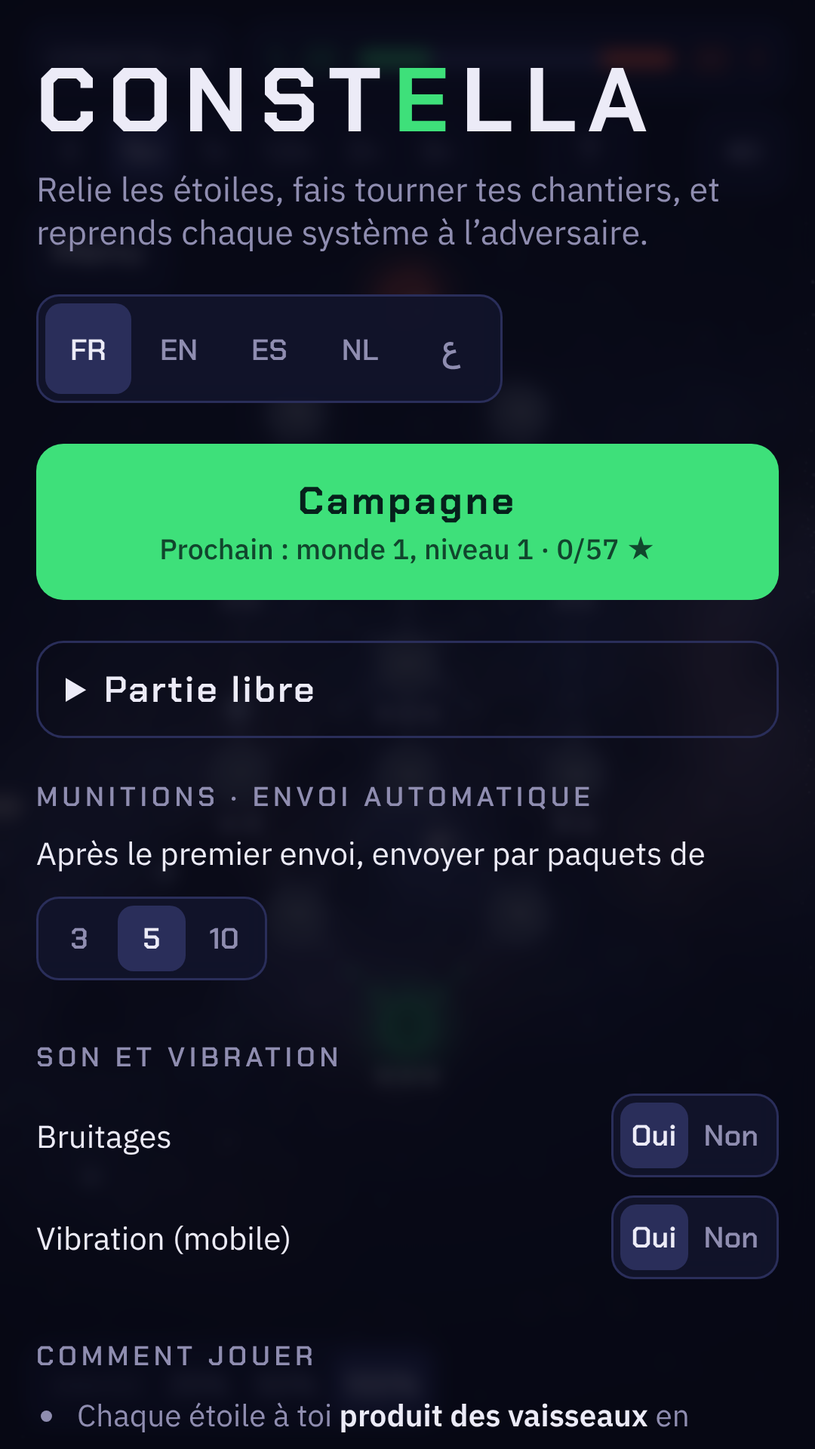
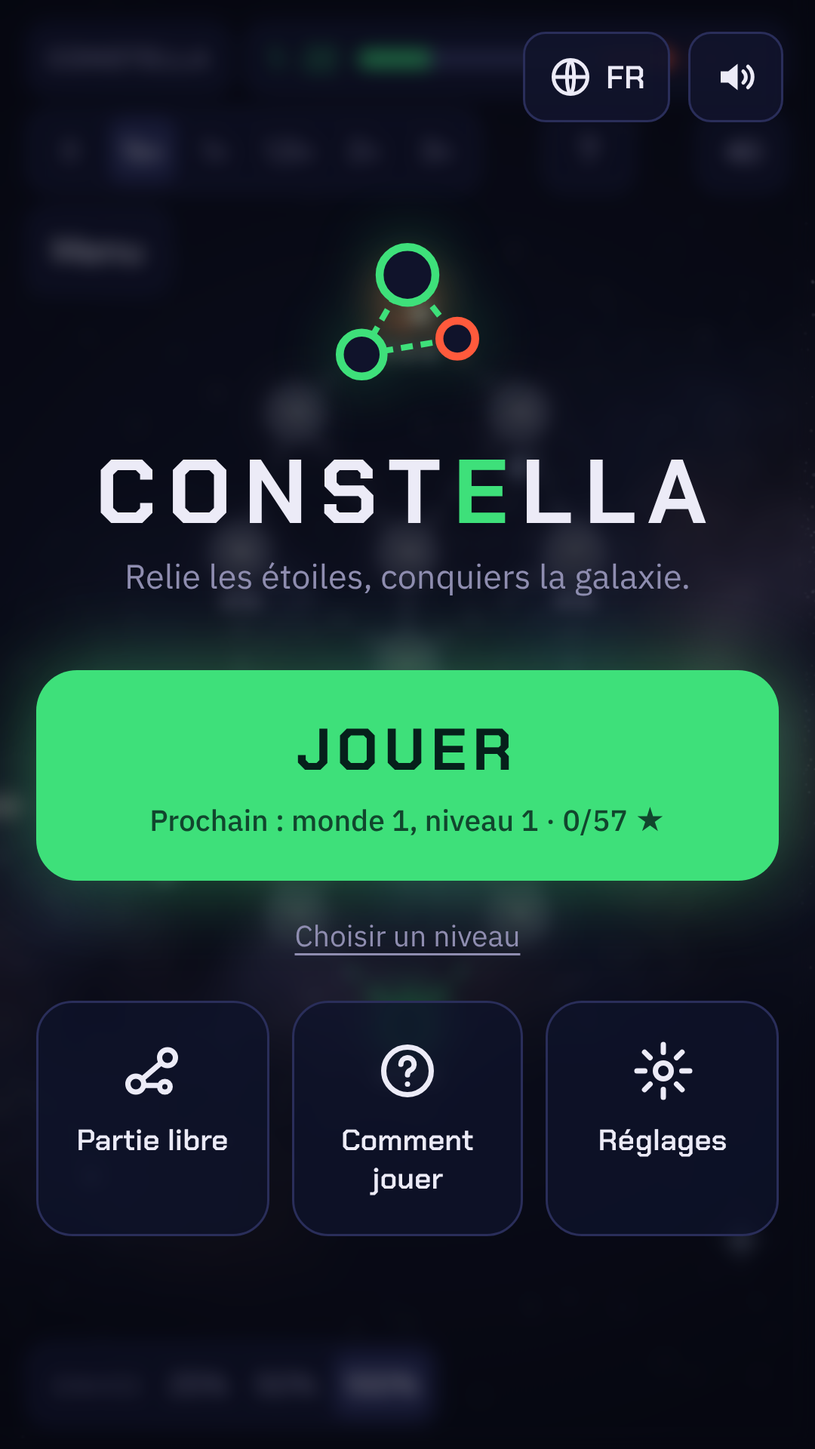
Nouvel accueil : bouton Jouer au centre et tuiles
Claude-Session: https://claude.ai/code/session_01BtQrEGDjXAQZv8s9ZSWGgz

diff --git a/index.html b/index.html
@@ -116,6 +116,26 @@ h2{font-family:var(--display);font-size:12px;letter-spacing:.16em;text-transform
 #endTitle{font-family:var(--display);font-size:clamp(34px,9vw,54px);margin:0;letter-spacing:.08em}
 #endStats{color:var(--muted);margin:0;font-variant-numeric:tabular-nums}
 .setrow{display:flex;align-items:center;justify-content:space-between;gap:10px;flex-wrap:wrap;margin-bottom:8px;font-size:14px}
+#menu{background:rgba(8,9,22,.55)}
+.home{align-items:center;text-align:center;max-width:420px;gap:14px}
+.home .tag{margin:-6px 0 0}
+.hlogo{width:88px;height:88px;filter:drop-shadow(0 0 14px rgba(62,224,122,.35))}
+.home .btns{width:100%;margin-top:18px;flex-direction:column}
+.go.play{padding:18px;border-radius:18px;font-size:26px;display:flex;flex-direction:column;gap:4px;box-shadow:0 0 36px rgba(62,224,122,.4)}
+.go.play>span{text-transform:uppercase;letter-spacing:.1em}
+.go.play small{font-family:var(--body,inherit);font-size:13px;font-weight:500;letter-spacing:0;opacity:.8}
+.lvl{color:var(--muted);font-size:13px;text-decoration:underline;text-underline-offset:3px;padding:2px 8px}
+.tiles{display:grid;grid-template-columns:repeat(3,1fr);gap:10px;width:100%;margin-top:4px}
+.tile{background:rgba(16,19,43,.78);border:1px solid var(--edge);border-radius:16px;padding:16px 6px;display:flex;flex-direction:column;align-items:center;gap:8px;font-family:var(--display);font-weight:600;font-size:13px}
+.tile svg{width:28px;height:28px}
+.mtop{position:absolute;top:max(14px,env(safe-area-inset-top,0px));right:14px;display:flex;gap:8px;z-index:2}
+[dir="rtl"] .mtop{right:auto;left:14px}
+.mi{height:40px;min-width:40px;padding:0 10px;display:flex;align-items:center;justify-content:center;gap:6px;font-family:var(--display);font-weight:600;font-size:14px}
+.mi svg{width:20px;height:20px}
+.sheetbg{position:fixed;inset:0;background:rgba(0,0,0,.5);z-index:3}
+.sheet{position:fixed;left:0;right:0;bottom:0;margin:0 auto;max-width:560px;max-height:82%;overflow:auto;z-index:4;background:rgba(14,17,38,.98);border-top:1px solid rgba(242,193,78,.5);border-radius:22px 22px 0 0;padding:18px 18px max(22px,env(safe-area-inset-bottom,0px));display:flex;flex-direction:column;gap:14px;animation:up .22s ease-out}
+.sheet h3{margin:0;font-family:var(--display);color:var(--gold);letter-spacing:.16em;font-size:13px;text-transform:uppercase}
+@keyframes up{from{transform:translateY(40px);opacity:0}}
 .btns{display:flex;gap:10px;flex-wrap:wrap}.btns>*{flex:1}
 details.free{border:1px solid var(--edge);border-radius:12px;padding:10px 12px}
 details.free summary{cursor:pointer;font-family:var(--display);font-weight:600;letter-spacing:.06em}
@@ -189,54 +209,42 @@ details.free>div{display:flex;flex-direction:column;gap:14px}
   </div>
 
   <div class="screen" id="menu">
-    <div class="card">
+    <div class="mtop"><button class="chip mi" id="mLang" data-i18n-aria="lang_h" aria-label="Langue"><svg viewBox="0 0 24 24" fill="none" stroke="currentColor" stroke-width="2" aria-hidden="true"><circle cx="12" cy="12" r="9"/><path d="M3 12h18M12 3c2.5 2.7 2.5 15.3 0 18M12 3c-2.5 2.7-2.5 15.3 0 18"/></svg><span id="mLangL">FR</span></button><button class="chip mi" id="mSnd"></button></div>
+    <div class="card home">
+      <svg class="hlogo" viewBox="0 0 100 100" aria-hidden="true"><path d="M27 70L50 30M50 30L75 62M27 70L75 62" stroke="var(--me)" stroke-width="3" stroke-dasharray="6 4" fill="none"/><g fill="#10132b" stroke-width="4"><circle cx="27" cy="70" r="11" stroke="var(--me)"/><circle cx="75" cy="62" r="9" stroke="#ff5a3c"/><circle cx="50" cy="30" r="14" stroke="var(--me)"/></g></svg>
       <h1 class="logo">CONST<span>E</span>LLA</h1>
       <p class="tag" data-i18n="tag"></p>
-      <div class="chip seg" id="lang" role="group" aria-label="Langue" style="align-self:flex-start"><button data-l="fr">FR</button><button data-l="en">EN</button><button data-l="es">ES</button><button data-l="nl">NL</button><button data-l="ar">ع</button></div>
-      <div class="btns"><button class="go" id="campaign"><span data-i18n="campaign">Campagne</span><small id="campNext"></small></button><button class="ghost" id="resume" hidden data-i18n="resume">Reprendre</button></div>
-      <details class="free"><summary data-i18n="free">Partie libre</summary>
-        <div>
-          <div><h2 data-i18n="map">Carte</h2><div class="maps" id="maps"></div></div>
-          <div><h2 data-i18n="opponent">Adversaire</h2>
+      <div class="btns"><button class="go play" id="campaign"><span data-i18n="play">Jouer</span><small id="campNext"></small></button><button class="ghost" id="resume" hidden data-i18n="resume">Reprendre</button></div>
+      <button class="lvl" id="levels" data-i18n="levels">Choisir un niveau</button>
+      <div class="tiles">
+        <button class="tile" data-sheet="sFree"><svg viewBox="0 0 24 24" fill="none" stroke="currentColor" stroke-width="2" stroke-linecap="round" aria-hidden="true"><circle cx="6" cy="17" r="3"/><circle cx="18" cy="7" r="3"/><circle cx="17" cy="18" r="2"/><path d="M8.5 15l7-6M9 17.5h6"/></svg><span data-i18n="free">Partie libre</span></button>
+        <button class="tile" data-sheet="sHow"><svg viewBox="0 0 24 24" fill="none" stroke="currentColor" stroke-width="2" stroke-linecap="round" aria-hidden="true"><circle cx="12" cy="12" r="9"/><path d="M9.5 9.5a2.5 2.5 0 1 1 3.5 2.3c-.7.3-1 .9-1 1.7M12 17h.01"/></svg><span data-i18n="how_h">Comment jouer</span></button>
+        <button class="tile" data-sheet="sSet"><svg viewBox="0 0 24 24" fill="none" stroke="currentColor" stroke-width="2" stroke-linecap="round" aria-hidden="true"><circle cx="12" cy="12" r="3"/><path d="M12 2v3M12 19v3M4.9 4.9l2.1 2.1M17 17l2.1 2.1M2 12h3M19 12h3M4.9 19.1L7 17M17 7l2.1-2.1"/></svg><span data-i18n="settings">Réglages</span></button>
+      </div>
+    </div>
+    <div class="sheetbg" id="sheetBg" hidden></div>
+    <div class="sheet" id="sFree" hidden><h3 data-i18n="free">Partie libre</h3>
+      <div><h2 data-i18n="map">Carte</h2><div class="maps" id="maps"></div></div>
+      <div><h2 data-i18n="opponent">Adversaire</h2>
             <div class="chip seg" id="diff" role="group" data-i18n-aria="diff_aria" aria-label="Difficulté" style="display:inline-flex">
               <button data-d="facile" data-i18n="diff_facile">Facile</button>
               <button data-d="normal" aria-pressed="true" data-i18n="diff_normal">Normal</button>
               <button data-d="difficile" data-i18n="diff_difficile">Difficile</button>
             </div>
           </div>
-          <button class="ghost" id="start" data-i18n="start_free">Lancer la partie libre</button>
-        </div>
-      </details>
-      <div><h2 data-i18n="mun_h">Munitions · envoi automatique</h2>
-        <div class="setrow"><span data-i18n="mun_t">Après le premier envoi, envoyer par paquets de</span>
-          <div class="chip seg" id="qty" role="group" data-i18n-aria="qty_aria" aria-label="Vaisseaux par envoi">
+      <button class="ghost" id="start" data-i18n="start_free">Lancer la partie libre</button>
+    </div>
+    <div class="sheet" id="sHow" hidden><h3 data-i18n="how_h">Comment jouer</h3>
+      <div id="howL" style="display:flex;flex-direction:column;gap:12px"></div>
+      <button class="ghost" id="tutoAgain" data-i18n="tuto_again" style="margin-top:10px;width:100%">Revoir le tutoriel</button>
+    </div>
+    <div class="sheet" id="sSet" hidden><h3 data-i18n="settings">Réglages</h3>
+      <div class="setrow"><span data-i18n="lang_h">Langue</span><div class="chip seg" id="lang" role="group" aria-label="Langue"><button data-l="fr">FR</button><button data-l="en">EN</button><button data-l="es">ES</button><button data-l="nl">NL</button><button data-l="ar">ع</button></div></div>
+      <div class="setrow"><span data-i18n="sfx">Bruitages</span><div class="chip seg" id="optSnd" role="group" aria-label="Bruitages"><button data-v="1" data-i18n="yes">Oui</button><button data-v="0" data-i18n="no">Non</button></div></div>
+      <div class="setrow"><span data-i18n="vib">Vibration</span><div class="chip seg" id="optVib" role="group" aria-label="Vibration"><button data-v="1" data-i18n="yes">Oui</button><button data-v="0" data-i18n="no">Non</button></div></div>
+      <div class="setrow"><span data-i18n="auto_by">Envoi auto par</span><div class="chip seg" id="qty" role="group" data-i18n-aria="qty_aria" aria-label="Vaisseaux par envoi">
             <button data-q="3">3</button><button data-q="5" aria-pressed="true">5</button><button data-q="10">10</button>
           </div></div>
-      </div>
-      <div><h2 data-i18n="snd_h">Son et vibration</h2>
-        <div class="setrow"><span data-i18n="sfx">Bruitages</span>
-          <div class="chip seg" id="optSnd" role="group" aria-label="Bruitages"><button data-v="1" data-i18n="yes">Oui</button><button data-v="0" data-i18n="no">Non</button></div></div>
-        <div class="setrow"><span data-i18n="vib">Vibration (mobile)</span>
-          <div class="chip seg" id="optVib" role="group" aria-label="Vibration"><button data-v="1" data-i18n="yes">Oui</button><button data-v="0" data-i18n="no">Non</button></div></div>
-      </div>
-      <div><h2 data-i18n="how_h">Comment jouer</h2>
-        <ul class="rules">
-          <li data-i18n-html="r1"></li>
-          <li data-i18n-html="r2"></li>
-          <li data-i18n-html="r3"></li>
-          <li data-i18n-html="r4"></li>
-          <li data-i18n-html="r5"></li>
-          <li data-i18n-html="r6"></li>
-          <li data-i18n-html="r7"></li>
-          <li data-i18n-html="r8"></li>
-          <li data-i18n-html="r9"></li>
-          <li data-i18n-html="r10"></li>
-          <li data-i18n-html="r11"></li>
-          <li data-i18n-html="r12"></li>
-          <li data-i18n-html="r13"></li>
-        </ul>
-        <button class="ghost" id="tutoAgain" data-i18n="tuto_again" style="margin-top:10px;width:100%">Revoir le tutoriel</button>
-      </div>
     </div>
   </div>
 
@@ -266,7 +274,7 @@ const I18N={
 fr:{
 map_aria:"Carte de la galaxie",speed_aria:"Vitesse du jeu",pause:"Pause",snd_title:"Couper ou remettre le son",menu:"Menu",tuto_skip:"Passer le tutoriel",
 ratio_aria:"Part de la flotte envoyée",send:"Envoi",fit:"Recentrer la carte",news_aria:"Nouveauté",news_h:"Nouveau",news_ok:"Compris",
-tag:"Relie les étoiles, fais tourner tes chantiers, et reprends chaque système à l’adversaire.",
+tag:"Relie les étoiles, conquiers la galaxie.",
 campaign:"Campagne",resume:"Reprendre",free:"Partie libre",map:"Carte",opponent:"Adversaire",diff_aria:"Difficulté",diff_facile:"Facile",diff_normal:"Normal",diff_difficile:"Difficile",start_free:"Lancer la partie libre",
 mun_h:"Munitions · envoi automatique",mun_t:"Après le premier envoi, envoyer par paquets de",qty_aria:"Vaisseaux par envoi",
 snd_h:"Son et vibration",sfx:"Bruitages",vib:"Vibration (mobile)",yes:"Oui",no:"Non",test_h:"Mode test",test_t:"Ouvrir tous les niveaux de la campagne",lang_h:"Langue",
@@ -307,12 +315,12 @@ tuto_bravo:"Bravo ! ",tuto_miss:"Raté, il en fallait plus. ",tuto4:"Glisse d’
 snd_off:"Couper le son",snd_on:"Remettre le son",
 w0n:"Ceinture d’Aldra",w0d:"Un seul adversaire, prudent. Le temps d’apprendre.",w1n:"Nébuleuse de Vesk",w1d:"Un adversaire plus vif, des cartes plus grandes.",
 w2n:"Triangle de Kael",w2d:"Deux ennemis en même temps. Ils se battent aussi entre eux.",w3n:"Couronne d’Ysor",w3d:"Trois ennemis. Survivre d’abord, conquérir ensuite.",
-map_vega_n:"Anneau de Véga",map_vega_d:"13 systèmes, un cœur géant disputé au milieu.",map_cygne_n:"Delta du Cygne",map_cygne_d:"15 systèmes en zigzag, des flancs exposés.",help_h:"Aide",help_close:"Fermer",help_tap_t:"Envoi unique",help_tap_d:"Touche ton étoile, puis une cible : elle y envoie ses vaisseaux une fois (25, 50 ou 100 %, en bas).",help_drag_t:"Envoi automatique",help_drag_d:"Glisse d’une étoile à une autre : tous les vaisseaux partent, puis un paquet dès qu’il est prêt. Glisse à nouveau pour arrêter.",help_wall_t:"Mur",help_wall_d:"Les traits autour de tes étoiles. Il grandit avec le temps et chaque segment arrête 1 vaisseau ennemi.",help_prod_d:"+40 % de production par niveau (3 niveaux), sans inconvénient.",help_auto_d:"Touche cette icône puis une cible : même effet que glisser d’une étoile à l’autre.",ft_tap:"Nouvelle icône ! Touche ton étoile pour la voir.",ft_prod:"Touche l’icône qui brille, Production : ton étoile produira 40 % plus vite.",ft_def:"Touche l’icône qui brille, Défense : tes vaisseaux résistent mieux et ton mur grandit plus vite.",ft_rapide:"Touche l’éclair qui brille, Rapide : les flottes de cette étoile voleront 60 % plus vite.",ft_phare:"Touche le soleil qui brille, Phare : les flottes de cette étoile et de ses voisines iront plus vite et frapperont plus fort.",ft_after:"Bravo ! Le bouton ? en haut explique toutes les icônes, à tout moment."
+map_vega_n:"Anneau de Véga",map_vega_d:"13 systèmes, un cœur géant disputé au milieu.",map_cygne_n:"Delta du Cygne",map_cygne_d:"15 systèmes en zigzag, des flancs exposés.",play:"Jouer",settings:"Réglages",levels:"Choisir un niveau",auto_by:"Envoi auto par",help_h:"Aide",help_close:"Fermer",help_tap_t:"Envoi unique",help_tap_d:"Touche ton étoile, puis une cible : elle y envoie ses vaisseaux une fois (25, 50 ou 100 %, en bas).",help_drag_t:"Envoi automatique",help_drag_d:"Glisse d’une étoile à une autre : tous les vaisseaux partent, puis un paquet dès qu’il est prêt. Glisse à nouveau pour arrêter.",help_wall_t:"Mur",help_wall_d:"Les traits autour de tes étoiles. Il grandit avec le temps et chaque segment arrête 1 vaisseau ennemi.",help_prod_d:"+40 % de production par niveau (3 niveaux), sans inconvénient.",help_auto_d:"Touche cette icône puis une cible : même effet que glisser d’une étoile à l’autre.",ft_tap:"Nouvelle icône ! Touche ton étoile pour la voir.",ft_prod:"Touche l’icône qui brille, Production : ton étoile produira 40 % plus vite.",ft_def:"Touche l’icône qui brille, Défense : tes vaisseaux résistent mieux et ton mur grandit plus vite.",ft_rapide:"Touche l’éclair qui brille, Rapide : les flottes de cette étoile voleront 60 % plus vite.",ft_phare:"Touche le soleil qui brille, Phare : les flottes de cette étoile et de ses voisines iront plus vite et frapperont plus fort.",ft_after:"Bravo ! Le bouton ? en haut explique toutes les icônes, à tout moment."
 },
 en:{
 map_aria:"Galaxy map",speed_aria:"Game speed",pause:"Pause",snd_title:"Mute or unmute",menu:"Menu",tuto_skip:"Skip tutorial",
 ratio_aria:"Share of the fleet sent",send:"Send",fit:"Recenter the map",news_aria:"New",news_h:"New",news_ok:"Got it",
-tag:"Link the stars, keep your shipyards busy, and take every system back from your rivals.",
+tag:"Link the stars, conquer the galaxy.",
 campaign:"Campaign",resume:"Resume",free:"Free play",map:"Map",opponent:"Opponent",diff_aria:"Difficulty",diff_facile:"Easy",diff_normal:"Normal",diff_difficile:"Hard",start_free:"Start free play",
 mun_h:"Ammo · auto-send",mun_t:"After the first send, send in packs of",qty_aria:"Ships per send",
 snd_h:"Sound and vibration",sfx:"Sound effects",vib:"Vibration (mobile)",yes:"Yes",no:"No",test_h:"Test mode",test_t:"Unlock every campaign level",lang_h:"Language",
@@ -353,12 +361,12 @@ tuto_bravo:"Well done! ",tuto_miss:"Missed, you needed more. ",tuto4:"Drag from 
 snd_off:"Mute",snd_on:"Unmute",
 w0n:"Aldra Belt",w0d:"A single cautious opponent. Time to learn.",w1n:"Vesk Nebula",w1d:"A sharper opponent, bigger maps.",
 w2n:"Kael Triangle",w2d:"Two enemies at once. They also fight each other.",w3n:"Ysor Crown",w3d:"Three enemies. Survive first, conquer next.",
-map_vega_n:"Vega Ring",map_vega_d:"13 systems, a giant contested core in the middle.",map_cygne_n:"Cygnus Delta",map_cygne_d:"15 zigzag systems, exposed flanks.",help_h:"Help",help_close:"Close",help_tap_t:"Single send",help_tap_d:"Tap your star, then a target: it sends its ships there once (25, 50 or 100%, at the bottom).",help_drag_t:"Auto-send",help_drag_d:"Drag from one star to another: all ships leave, then a pack as soon as it is ready. Drag again to stop.",help_wall_t:"Wall",help_wall_d:"The marks around your stars. It grows over time and each segment stops 1 enemy ship.",help_prod_d:"+40% production per level (3 levels), with no downside.",help_auto_d:"Tap this icon, then a target: same as dragging from one star to another.",ft_tap:"New icon! Tap your star to see it.",ft_prod:"Tap the glowing icon, Production: your star will build 40% faster.",ft_def:"Tap the glowing icon, Defense: your ships resist better and your wall grows faster.",ft_rapide:"Tap the glowing bolt, Rapid: fleets from this star will fly 60% faster.",ft_phare:"Tap the glowing sun, Beacon: fleets from this star and its neighbours will fly faster and hit harder.",ft_after:"Well done! The ? button at the top explains every icon, anytime."
+map_vega_n:"Vega Ring",map_vega_d:"13 systems, a giant contested core in the middle.",map_cygne_n:"Cygnus Delta",map_cygne_d:"15 zigzag systems, exposed flanks.",play:"Play",settings:"Settings",levels:"Choose a level",auto_by:"Auto-send packs of",help_h:"Help",help_close:"Close",help_tap_t:"Single send",help_tap_d:"Tap your star, then a target: it sends its ships there once (25, 50 or 100%, at the bottom).",help_drag_t:"Auto-send",help_drag_d:"Drag from one star to another: all ships leave, then a pack as soon as it is ready. Drag again to stop.",help_wall_t:"Wall",help_wall_d:"The marks around your stars. It grows over time and each segment stops 1 enemy ship.",help_prod_d:"+40% production per level (3 levels), with no downside.",help_auto_d:"Tap this icon, then a target: same as dragging from one star to another.",ft_tap:"New icon! Tap your star to see it.",ft_prod:"Tap the glowing icon, Production: your star will build 40% faster.",ft_def:"Tap the glowing icon, Defense: your ships resist better and your wall grows faster.",ft_rapide:"Tap the glowing bolt, Rapid: fleets from this star will fly 60% faster.",ft_phare:"Tap the glowing sun, Beacon: fleets from this star and its neighbours will fly faster and hit harder.",ft_after:"Well done! The ? button at the top explains every icon, anytime."
 },
 es:{
 map_aria:"Mapa de la galaxia",speed_aria:"Velocidad del juego",pause:"Pausa",snd_title:"Silenciar o activar el sonido",menu:"Menú",tuto_skip:"Saltar el tutorial",
 ratio_aria:"Parte de la flota enviada",send:"Envío",fit:"Centrar el mapa",news_aria:"Novedad",news_h:"Nuevo",news_ok:"Entendido",
-tag:"Une las estrellas, mantén tus astilleros en marcha y recupera cada sistema del adversario.",
+tag:"Une las estrellas, conquista la galaxia.",
 campaign:"Campaña",resume:"Continuar",free:"Partida libre",map:"Mapa",opponent:"Adversario",diff_aria:"Dificultad",diff_facile:"Fácil",diff_normal:"Normal",diff_difficile:"Difícil",start_free:"Empezar partida libre",
 mun_h:"Munición · envío automático",mun_t:"Tras el primer envío, enviar en grupos de",qty_aria:"Naves por envío",
 snd_h:"Sonido y vibración",sfx:"Efectos de sonido",vib:"Vibración (móvil)",yes:"Sí",no:"No",test_h:"Modo prueba",test_t:"Abrir todos los niveles de la campaña",lang_h:"Idioma",
@@ -399,12 +407,12 @@ tuto_bravo:"¡Bien hecho! ",tuto_miss:"Fallaste, hacían falta más. ",tuto4:"Ar
 snd_off:"Silenciar",snd_on:"Activar el sonido",
 w0n:"Cinturón de Aldra",w0d:"Un solo adversario, prudente. Tiempo para aprender.",w1n:"Nebulosa de Vesk",w1d:"Un adversario más rápido, mapas más grandes.",
 w2n:"Triángulo de Kael",w2d:"Dos enemigos a la vez. También luchan entre ellos.",w3n:"Corona de Ysor",w3d:"Tres enemigos. Primero sobrevivir, luego conquistar.",
-map_vega_n:"Anillo de Vega",map_vega_d:"13 sistemas, un núcleo gigante disputado en el centro.",map_cygne_n:"Delta del Cisne",map_cygne_d:"15 sistemas en zigzag, flancos expuestos.",help_h:"Ayuda",help_close:"Cerrar",help_tap_t:"Envío único",help_tap_d:"Toca tu estrella y luego un objetivo: envía sus naves una vez (25, 50 o 100 %, abajo).",help_drag_t:"Envío automático",help_drag_d:"Arrastra de una estrella a otra: salen todas las naves y luego un grupo en cuanto está listo. Arrastra otra vez para parar.",help_wall_t:"Muro",help_wall_d:"Las marcas alrededor de tus estrellas. Crece con el tiempo y cada segmento detiene 1 nave enemiga.",help_prod_d:"+40 % de producción por nivel (3 niveles), sin desventaja.",help_auto_d:"Toca este icono y luego un objetivo: igual que arrastrar de una estrella a otra.",ft_tap:"¡Nuevo icono! Toca tu estrella para verlo.",ft_prod:"Toca el icono que brilla, Producción: tu estrella producirá un 40 % más rápido.",ft_def:"Toca el icono que brilla, Defensa: tus naves resisten mejor y tu muro crece más rápido.",ft_rapide:"Toca el rayo que brilla, Rápida: las flotas de esta estrella volarán un 60 % más rápido.",ft_phare:"Toca el sol que brilla, Faro: las flotas de esta estrella y de sus vecinas irán más rápido y golpearán más fuerte.",ft_after:"¡Bien hecho! El botón ? de arriba explica todos los iconos, en cualquier momento."
+map_vega_n:"Anillo de Vega",map_vega_d:"13 sistemas, un núcleo gigante disputado en el centro.",map_cygne_n:"Delta del Cisne",map_cygne_d:"15 sistemas en zigzag, flancos expuestos.",play:"Jugar",settings:"Ajustes",levels:"Elegir un nivel",auto_by:"Envío auto de",help_h:"Ayuda",help_close:"Cerrar",help_tap_t:"Envío único",help_tap_d:"Toca tu estrella y luego un objetivo: envía sus naves una vez (25, 50 o 100 %, abajo).",help_drag_t:"Envío automático",help_drag_d:"Arrastra de una estrella a otra: salen todas las naves y luego un grupo en cuanto está listo. Arrastra otra vez para parar.",help_wall_t:"Muro",help_wall_d:"Las marcas alrededor de tus estrellas. Crece con el tiempo y cada segmento detiene 1 nave enemiga.",help_prod_d:"+40 % de producción por nivel (3 niveles), sin desventaja.",help_auto_d:"Toca este icono y luego un objetivo: igual que arrastrar de una estrella a otra.",ft_tap:"¡Nuevo icono! Toca tu estrella para verlo.",ft_prod:"Toca el icono que brilla, Producción: tu estrella producirá un 40 % más rápido.",ft_def:"Toca el icono que brilla, Defensa: tus naves resisten mejor y tu muro crece más rápido.",ft_rapide:"Toca el rayo que brilla, Rápida: las flotas de esta estrella volarán un 60 % más rápido.",ft_phare:"Toca el sol que brilla, Faro: las flotas de esta estrella y de sus vecinas irán más rápido y golpearán más fuerte.",ft_after:"¡Bien hecho! El botón ? de arriba explica todos los iconos, en cualquier momento."
 },
 nl:{
 map_aria:"Kaart van de melkweg",speed_aria:"Spelsnelheid",pause:"Pauze",snd_title:"Geluid uit of aan",menu:"Menu",tuto_skip:"Tutorial overslaan",
 ratio_aria:"Deel van de vloot dat vertrekt",send:"Sturen",fit:"Kaart centreren",news_aria:"Nieuw",news_h:"Nieuw",news_ok:"Begrepen",
-tag:"Verbind de sterren, laat je werven draaien en herover elk systeem op je tegenstander.",
+tag:"Verbind de sterren, verover de melkweg.",
 campaign:"Campagne",resume:"Hervatten",free:"Vrij spel",map:"Kaart",opponent:"Tegenstander",diff_aria:"Moeilijkheid",diff_facile:"Makkelijk",diff_normal:"Normaal",diff_difficile:"Moeilijk",start_free:"Vrij spel starten",
 mun_h:"Munitie · automatisch sturen",mun_t:"Na de eerste zending, sturen in groepen van",qty_aria:"Schepen per zending",
 snd_h:"Geluid en trillen",sfx:"Geluidseffecten",vib:"Trillen (mobiel)",yes:"Ja",no:"Nee",test_h:"Testmodus",test_t:"Alle campagneniveaus openen",lang_h:"Taal",
@@ -445,12 +453,12 @@ tuto_bravo:"Goed zo! ",tuto_miss:"Mis, je had er meer nodig. ",tuto4:"Sleep van 
 snd_off:"Geluid uit",snd_on:"Geluid aan",
 w0n:"Gordel van Aldra",w0d:"Eén voorzichtige tegenstander. Tijd om te leren.",w1n:"Nevel van Vesk",w1d:"Een snellere tegenstander, grotere kaarten.",
 w2n:"Driehoek van Kael",w2d:"Twee vijanden tegelijk. Ze vechten ook onderling.",w3n:"Kroon van Ysor",w3d:"Drie vijanden. Eerst overleven, dan veroveren.",
-map_vega_n:"Ring van Vega",map_vega_d:"13 systemen, een reusachtig betwist hart in het midden.",map_cygne_n:"Delta van de Zwaan",map_cygne_d:"15 systemen in zigzag, open flanken.",help_h:"Hulp",help_close:"Sluiten",help_tap_t:"Eenmalig sturen",help_tap_d:"Tik op je ster en dan op een doel: ze stuurt haar schepen er één keer heen (25, 50 of 100%, onderaan).",help_drag_t:"Automatisch sturen",help_drag_d:"Sleep van de ene ster naar de andere: alle schepen vertrekken, daarna een groep zodra die klaar is. Sleep opnieuw om te stoppen.",help_wall_t:"Muur",help_wall_d:"De streepjes rond je sterren. Hij groeit met de tijd en elk stuk houdt 1 vijandelijk schip tegen.",help_prod_d:"+40% productie per niveau (3 niveaus), zonder nadeel.",help_auto_d:"Tik op dit icoon en dan op een doel: hetzelfde als slepen van ster naar ster.",ft_tap:"Nieuw icoon! Tik op je ster om het te zien.",ft_prod:"Tik op het oplichtende icoon, Productie: je ster bouwt 40% sneller.",ft_def:"Tik op het oplichtende icoon, Verdediging: je schepen houden beter stand en je muur groeit sneller.",ft_rapide:"Tik op de oplichtende bliksem, Snel: vloten van deze ster vliegen 60% sneller.",ft_phare:"Tik op de oplichtende zon, Baken: vloten van deze ster en haar buren gaan sneller en slaan harder.",ft_after:"Goed zo! De knop ? bovenaan legt alle iconen uit, op elk moment."
+map_vega_n:"Ring van Vega",map_vega_d:"13 systemen, een reusachtig betwist hart in het midden.",map_cygne_n:"Delta van de Zwaan",map_cygne_d:"15 systemen in zigzag, open flanken.",play:"Spelen",settings:"Instellingen",levels:"Kies een niveau",auto_by:"Auto-sturen per",help_h:"Hulp",help_close:"Sluiten",help_tap_t:"Eenmalig sturen",help_tap_d:"Tik op je ster en dan op een doel: ze stuurt haar schepen er één keer heen (25, 50 of 100%, onderaan).",help_drag_t:"Automatisch sturen",help_drag_d:"Sleep van de ene ster naar de andere: alle schepen vertrekken, daarna een groep zodra die klaar is. Sleep opnieuw om te stoppen.",help_wall_t:"Muur",help_wall_d:"De streepjes rond je sterren. Hij groeit met de tijd en elk stuk houdt 1 vijandelijk schip tegen.",help_prod_d:"+40% productie per niveau (3 niveaus), zonder nadeel.",help_auto_d:"Tik op dit icoon en dan op een doel: hetzelfde als slepen van ster naar ster.",ft_tap:"Nieuw icoon! Tik op je ster om het te zien.",ft_prod:"Tik op het oplichtende icoon, Productie: je ster bouwt 40% sneller.",ft_def:"Tik op het oplichtende icoon, Verdediging: je schepen houden beter stand en je muur groeit sneller.",ft_rapide:"Tik op de oplichtende bliksem, Snel: vloten van deze ster vliegen 60% sneller.",ft_phare:"Tik op de oplichtende zon, Baken: vloten van deze ster en haar buren gaan sneller en slaan harder.",ft_after:"Goed zo! De knop ? bovenaan legt alle iconen uit, op elk moment."
 },
 ar:{
 map_aria:"خريطة المجرة",speed_aria:"سرعة اللعبة",pause:"إيقاف مؤقت",snd_title:"كتم الصوت أو تشغيله",menu:"القائمة",tuto_skip:"تخطي الدرس",
 ratio_aria:"نسبة الأسطول المرسل",send:"إرسال",fit:"توسيط الخريطة",news_aria:"جديد",news_h:"جديد",news_ok:"فهمت",
-tag:"اربط النجوم، وشغّل أحواض سفنك، واستعد كل نظام من خصمك.",
+tag:"اربط النجوم واغزُ المجرة.",
 campaign:"الحملة",resume:"متابعة",free:"لعب حر",map:"الخريطة",opponent:"الخصم",diff_aria:"الصعوبة",diff_facile:"سهل",diff_normal:"عادي",diff_difficile:"صعب",start_free:"ابدأ اللعب الحر",
 mun_h:"الذخيرة · الإرسال التلقائي",mun_t:"بعد الإرسال الأول، أرسل على دفعات من",qty_aria:"عدد السفن في كل إرسال",
 snd_h:"الصوت والاهتزاز",sfx:"المؤثرات الصوتية",vib:"الاهتزاز (الهاتف)",yes:"نعم",no:"لا",test_h:"وضع التجربة",test_t:"فتح كل مستويات الحملة",lang_h:"اللغة",
@@ -491,7 +499,7 @@ tuto_bravo:"أحسنت! ",tuto_miss:"فاتتك، كنت تحتاج أكثر. ",
 snd_off:"كتم الصوت",snd_on:"تشغيل الصوت",
 w0n:"حزام ألدرا",w0d:"خصم واحد حذر. وقت للتعلم.",w1n:"سديم فيسك",w1d:"خصم أسرع، وخرائط أكبر.",
 w2n:"مثلث كايل",w2d:"عدوّان في الوقت نفسه. يتقاتلان أيضًا فيما بينهما.",w3n:"تاج يسور",w3d:"ثلاثة أعداء. انجُ أولًا، ثم انتصر.",
-map_vega_n:"حلقة فيغا",map_vega_d:"13 نظامًا، وقلب عملاق متنازع عليه في الوسط.",map_cygne_n:"دلتا الدجاجة",map_cygne_d:"15 نظامًا متعرجًا، وأجنحة مكشوفة.",help_h:"مساعدة",help_close:"إغلاق",help_tap_t:"إرسال واحد",help_tap_d:"المس نجمك ثم هدفًا: يرسل سفنه إليه مرة واحدة (25 أو 50 أو 100٪، في الأسفل).",help_drag_t:"إرسال تلقائي",help_drag_d:"اسحب من نجم إلى آخر: تنطلق كل السفن، ثم دفعة كلما جهزت. اسحب مجددًا للإيقاف.",help_wall_t:"السور",help_wall_d:"الخطوط حول نجومك. يكبر مع الوقت وكل قطعة توقف سفينة معادية واحدة.",help_prod_d:"+40٪ إنتاج في كل مستوى (3 مستويات)، بلا عيب.",help_auto_d:"المس هذه الأيقونة ثم هدفًا: مثل السحب من نجم إلى آخر.",ft_tap:"أيقونة جديدة! المس نجمك لتراها.",ft_prod:"المس الأيقونة المضيئة، الإنتاج: سينتج نجمك أسرع بـ40٪.",ft_def:"المس الأيقونة المضيئة، الدفاع: تصمد سفنك أكثر ويكبر سورك أسرع.",ft_rapide:"المس البرق المضيء، السريع: أساطيل هذا النجم ستطير أسرع بـ60٪.",ft_phare:"المس الشمس المضيئة، المنارة: أساطيل هذا النجم وجيرانه ستكون أسرع وأقوى.",ft_after:"أحسنت! زر ؟ في الأعلى يشرح كل الأيقونات في أي وقت."
+map_vega_n:"حلقة فيغا",map_vega_d:"13 نظامًا، وقلب عملاق متنازع عليه في الوسط.",map_cygne_n:"دلتا الدجاجة",map_cygne_d:"15 نظامًا متعرجًا، وأجنحة مكشوفة.",play:"العب",settings:"الإعدادات",levels:"اختر مستوى",auto_by:"إرسال تلقائي بدفعات من",help_h:"مساعدة",help_close:"إغلاق",help_tap_t:"إرسال واحد",help_tap_d:"المس نجمك ثم هدفًا: يرسل سفنه إليه مرة واحدة (25 أو 50 أو 100٪، في الأسفل).",help_drag_t:"إرسال تلقائي",help_drag_d:"اسحب من نجم إلى آخر: تنطلق كل السفن، ثم دفعة كلما جهزت. اسحب مجددًا للإيقاف.",help_wall_t:"السور",help_wall_d:"الخطوط حول نجومك. يكبر مع الوقت وكل قطعة توقف سفينة معادية واحدة.",help_prod_d:"+40٪ إنتاج في كل مستوى (3 مستويات)، بلا عيب.",help_auto_d:"المس هذه الأيقونة ثم هدفًا: مثل السحب من نجم إلى آخر.",ft_tap:"أيقونة جديدة! المس نجمك لتراها.",ft_prod:"المس الأيقونة المضيئة، الإنتاج: سينتج نجمك أسرع بـ40٪.",ft_def:"المس الأيقونة المضيئة، الدفاع: تصمد سفنك أكثر ويكبر سورك أسرع.",ft_rapide:"المس البرق المضيء، السريع: أساطيل هذا النجم ستطير أسرع بـ60٪.",ft_phare:"المس الشمس المضيئة، المنارة: أساطيل هذا النجم وجيرانه ستكون أسرع وأقوى.",ft_after:"أحسنت! زر ؟ في الأعلى يشرح كل الأيقونات في أي وقت."
 }};
 const LANGS=["fr","en","es","nl","ar"];
 let lang=(()=>{try{const v=JSON.parse(localStorage.getItem("constella-lang")||"null");if(LANGS.includes(v))return v;}catch(e){}
@@ -1198,12 +1206,18 @@ function renderWorlds(){
     list.appendChild(sec);});
 }
 function campLabel(){const nx=nextIndex();$("campNext").textContent=(nx<0?t("camp_done"):t("camp_next",FLAT[nx].wi+1,FLAT[nx].li+1))+` · ${totalStars()}/${FLAT.length*3} ★`;}
-$("campaign").onclick=()=>{renderWorlds();show("worlds");};
+$("campaign").onclick=()=>{const nx=nextIndex();if(nx<0){renderWorlds();show("worlds");}else{closeSheet();startLevel(FLAT[nx].wi,FLAT[nx].li);}};
+$("levels").onclick=()=>{renderWorlds();show("worlds");};
+// Accueil : tuiles qui ouvrent un panneau par le bas
+function closeSheet(){document.querySelectorAll(".sheet").forEach(x=>x.hidden=true);$("sheetBg").hidden=true;}
+function openSheet(id){closeSheet();if(id==="sHow")helpRows($("howL"),null);$(id).hidden=false;$("sheetBg").hidden=false;$(id).scrollTop=0;}
+document.querySelectorAll(".tile").forEach(b=>b.onclick=()=>openSheet(b.dataset.sheet));
+$("sheetBg").onclick=closeSheet;$("mLang").onclick=()=>openSheet("sSet");$("mSnd").onclick=()=>setSound(!snd.on);
 $("wBack").onclick=()=>{campLabel();show("menu");};
-$("start").onclick=startFree;
+$("start").onclick=()=>{closeSheet();startFree();};
 $("menuBtn").onclick=openMenu;
 $("resume").onclick=()=>{show(null);menuOpen=false;refreshPanel();};
-function openMenu(){menuOpen=true;campLabel();show("menu");$("resume").hidden=!(G&&!G.over&&!G.demo);}
+function openMenu(){closeSheet();menuOpen=true;campLabel();show("menu");$("resume").hidden=!(G&&!G.over&&!G.demo);}
 function finish(win){if(G.over)return;G.over=true;if(G.demo)return;G.sel=null;refreshPanel();
   const tm=fmtT(playTime(G));let next=null;if(tuto)tutoEnd(true);sfx(win?"win":"lose");buzz(win?[30,40,30,40,90]:[220]);
   let got=0;
@@ -1273,31 +1287,30 @@ function featTutoStart(k){
 }
 // aide toujours disponible : explication de chaque geste et de chaque icône débloquée
 let helpOpen=false;
-function openHelp(){
-  const u=G&&!G.demo?U():FULL,rows=[["tap",t("help_tap_t"),t("help_tap_d")],["drag",t("help_drag_t"),t("help_drag_d")+" "+t("help_auto_d")],["wall",t("help_wall_t"),t("help_wall_d")]];
+function openHelp(){helpRows($("helpL"),G&&!G.demo?U():FULL);$("help").hidden=false;helpOpen=true;$("helpL").scrollTop=0;}
+function helpRows(L,u){const all=!u;u=u||FULL;const rows=[["tap",t("help_tap_t"),t("help_tap_d")],["drag",t("help_drag_t"),t("help_drag_d")+" "+t("help_auto_d")],["wall",t("help_wall_t"),t("help_wall_d")]];
   if(u.prod)rows.push(["prod",t("rb_prod"),t("help_prod_d")]);
   if(u.def)rows.push(["def",t("rb_def"),t("n_def1_d")]);
   if(u.rapide)rows.push(["rapide",t("n_rapide_t"),t("n_rapide_d")]);
   if(u.phare)rows.push(["phare",t("n_phare_t"),t("n_phare_d")]);
   if(u.klv>1)rows.push(["klv",t("rb_klv"),t("n_klv_d",u.klv)]);
-  if(!G||G.demo||G.nodes.some(n=>n.size===2))rows.push(["t2",t("n_t2_t"),t("n_t2_d")]);
-  if(!G||G.demo||G.nodes.some(n=>n.size===3))rows.push(["t3",t("n_t3_t"),t("n_t3_d")]);
+  if(all||!G||G.demo||G.nodes.some(n=>n.size===2))rows.push(["t2",t("n_t2_t"),t("n_t2_d")]);
+  if(all||!G||G.demo||G.nodes.some(n=>n.size===3))rows.push(["t3",t("n_t3_t"),t("n_t3_d")]);
   rows.push(["zoom",t("n_zoom_t"),t("n_zoom_d")]);
-  const L=$("helpL");L.innerHTML="";
+  L.innerHTML="";
   rows.forEach(([k,ti,d])=>{const row=document.createElement("div");row.className="ni";const ic=document.createElement("span");ic.className="rb k-"+k;ic.innerHTML=svgI(k);
     const tx=document.createElement("div");const b=document.createElement("b");b.textContent=ti;const sm=document.createElement("small");sm.textContent=d;tx.append(b,sm);row.append(ic,tx);L.appendChild(row);});
-  $("help").hidden=false;helpOpen=true;$("helpL").scrollTop=0;
 }
 $("helpBtn").onclick=()=>{if(helpOpen){$("help").hidden=true;helpOpen=false;}else openHelp();};
 $("helpOk").onclick=()=>{$("help").hidden=true;helpOpen=false;};
 $("tutoOk").onclick=()=>{if(tuto)tutoNext();};
 $("tutoSkip").onclick=()=>{if(tuto)tutoEnd();};
-$("tutoAgain").onclick=()=>startLevel(0,0,true);
+$("tutoAgain").onclick=()=>{closeSheet();startLevel(0,0,true);};
 
 // Son et vibration
 const SVG_ON='<svg viewBox="0 0 24 24" fill="none" stroke="currentColor" stroke-width="2" stroke-linecap="round" stroke-linejoin="round" aria-hidden="true"><path d="M4 9h4l5-4v14l-5-4H4z" fill="currentColor" stroke="none"/><path d="M16 9a4 4 0 0 1 0 6"/><path d="M18.5 6.5a7.5 7.5 0 0 1 0 11"/></svg>';
 const SVG_OFF='<svg viewBox="0 0 24 24" fill="none" stroke="currentColor" stroke-width="2" stroke-linecap="round" aria-hidden="true"><path d="M4 9h4l5-4v14l-5-4H4z" fill="currentColor" stroke="none"/><path d="M16.5 9.5l5 5M21.5 9.5l-5 5"/></svg>';
-function soundUi(){$("sndBtn").innerHTML=snd.on?SVG_ON:SVG_OFF;$("sndBtn").setAttribute("aria-pressed",String(snd.on));$("sndBtn").setAttribute("aria-label",snd.on?t("snd_off"):t("snd_on"));$("sndBtn").title=snd.on?t("snd_off"):t("snd_on");
+function soundUi(){if($("mSnd"))$("mSnd").innerHTML=snd.on?SVG_ON:SVG_OFF;$("sndBtn").innerHTML=snd.on?SVG_ON:SVG_OFF;$("sndBtn").setAttribute("aria-pressed",String(snd.on));$("sndBtn").setAttribute("aria-label",snd.on?t("snd_off"):t("snd_on"));$("sndBtn").title=snd.on?t("snd_off"):t("snd_on");
   mark("optSnd","v",snd.on?1:0);mark("optVib","v",snd.vib?1:0);}
 function setSound(v){snd.on=v;store.set("constella-son",v);if(v){audio();setTimeout(()=>{const d=G&&G.demo;if(d)G.demo=false;sfx("tick");if(d)G.demo=true;},30);}soundUi();}
 $("sndBtn").onclick=()=>setSound(!snd.on);
@@ -1314,7 +1327,7 @@ function applyLang(){
   document.querySelectorAll("[data-i18n-aria]").forEach(el=>{el.setAttribute("aria-label",t(el.dataset.i18nAria));if(el.hasAttribute("title"))el.title=t(el.dataset.i18nAria);});
   document.querySelectorAll("#maps .map").forEach(b=>{b.querySelector("b").textContent=t("map_"+b.dataset.map+"_n");b.querySelector("small").textContent=t("map_"+b.dataset.map+"_d");});
   document.querySelectorAll("#lang button").forEach(b=>b.setAttribute("aria-pressed",String(b.dataset.l===lang)));
-  $("lang").setAttribute("aria-label",t("lang_h"));
+  $("lang").setAttribute("aria-label",t("lang_h"));$("mLangL").textContent=lang==="ar"?"ع":lang.toUpperCase();
   campLabel();soundUi();if(!$("worlds").hidden)renderWorlds();if(tuto)tutoShow();if(G)refreshPanel();
 }
 document.querySelectorAll("#lang button").forEach(b=>b.onclick=()=>{lang=b.dataset.l;store.set("constella-lang",lang);applyLang();});

diff --git a/README.md b/README.md
@@ -40,7 +40,8 @@ Chaque niveau de campagne rapporte 1 à 3 étoiles : 1 pour la victoire, 2 si tu
 - IA à 3 niveaux : Facile, Normal, Difficile. Elle défend ses étoiles menacées (renforts des voisines), vise les étoiles faibles et combine plusieurs étoiles pour attaquer
 - Caractère des ennemis selon le niveau : agressif (te vise en priorité), prudent (se protège, prend d'abord les neutres) ou équilibré
 - Sons synthétisés (captures, explosions quand les flottes se percutent, améliorations, victoire), vibration sur mobile, bouton pour couper le son
-- Tutoriel guidé au premier niveau (revoir depuis le menu)
+- Accueil épuré : logo, gros bouton Jouer (reprend au prochain niveau), tuiles Partie libre / Comment jouer / Réglages qui ouvrent un panneau
+- Tutoriel guidé au premier niveau (revoir depuis Comment jouer)
 - Mini tutoriel guidé à chaque nouvelle icône (Production, Rapide, Défense, Phare), avec l’icône qui brille
 - Bouton ? toujours disponible en jeu : explique les gestes et toutes les icônes débloquées (met la partie en pause)
 - Icônes autour de l'étoile sélectionnée (Production, Défense, Rapide, Bouclier, Phare, niveau du type, envoi auto), sans panneau de texte
